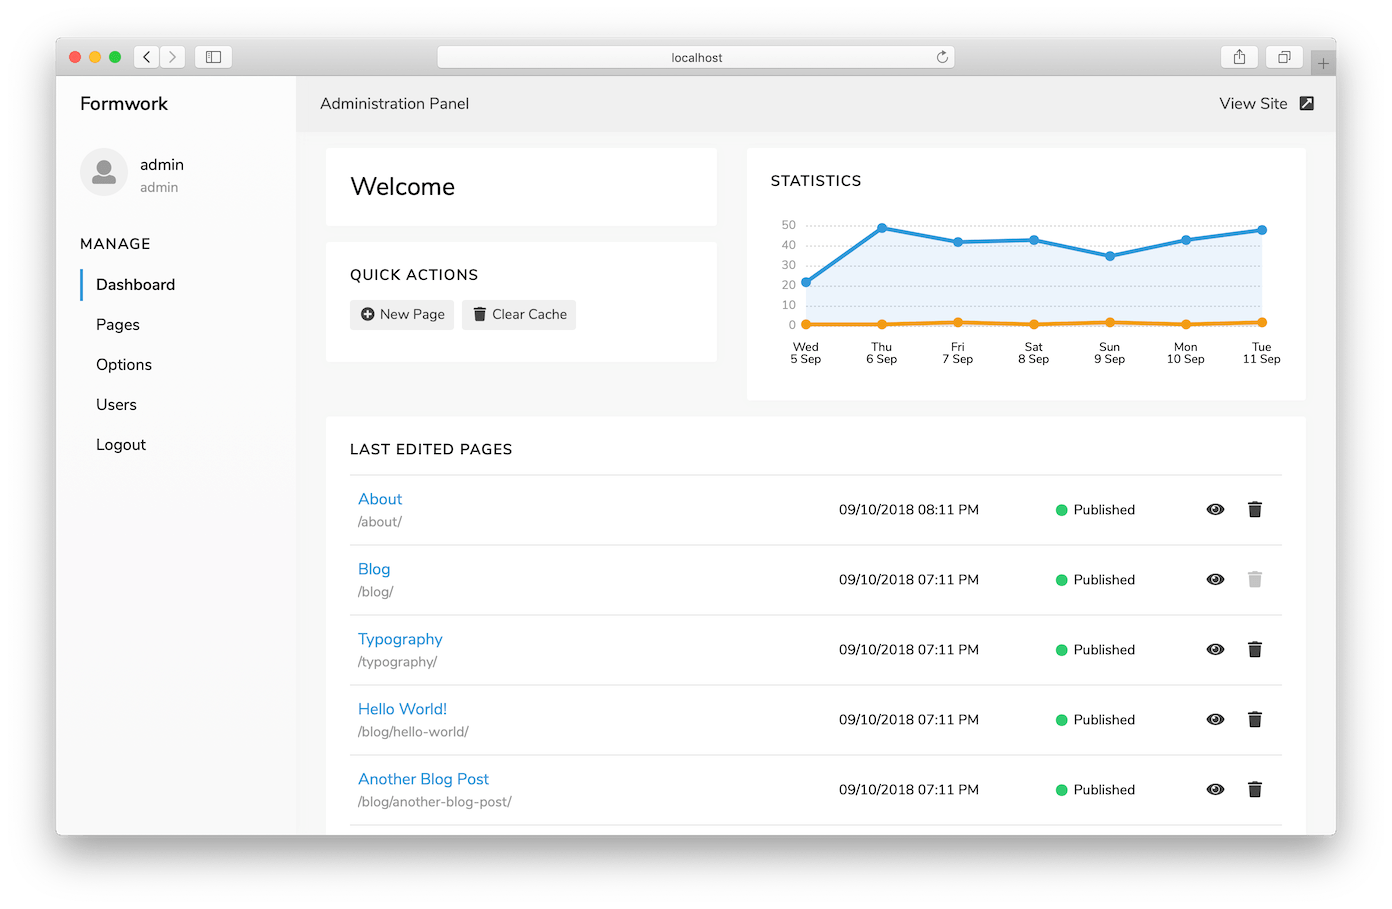
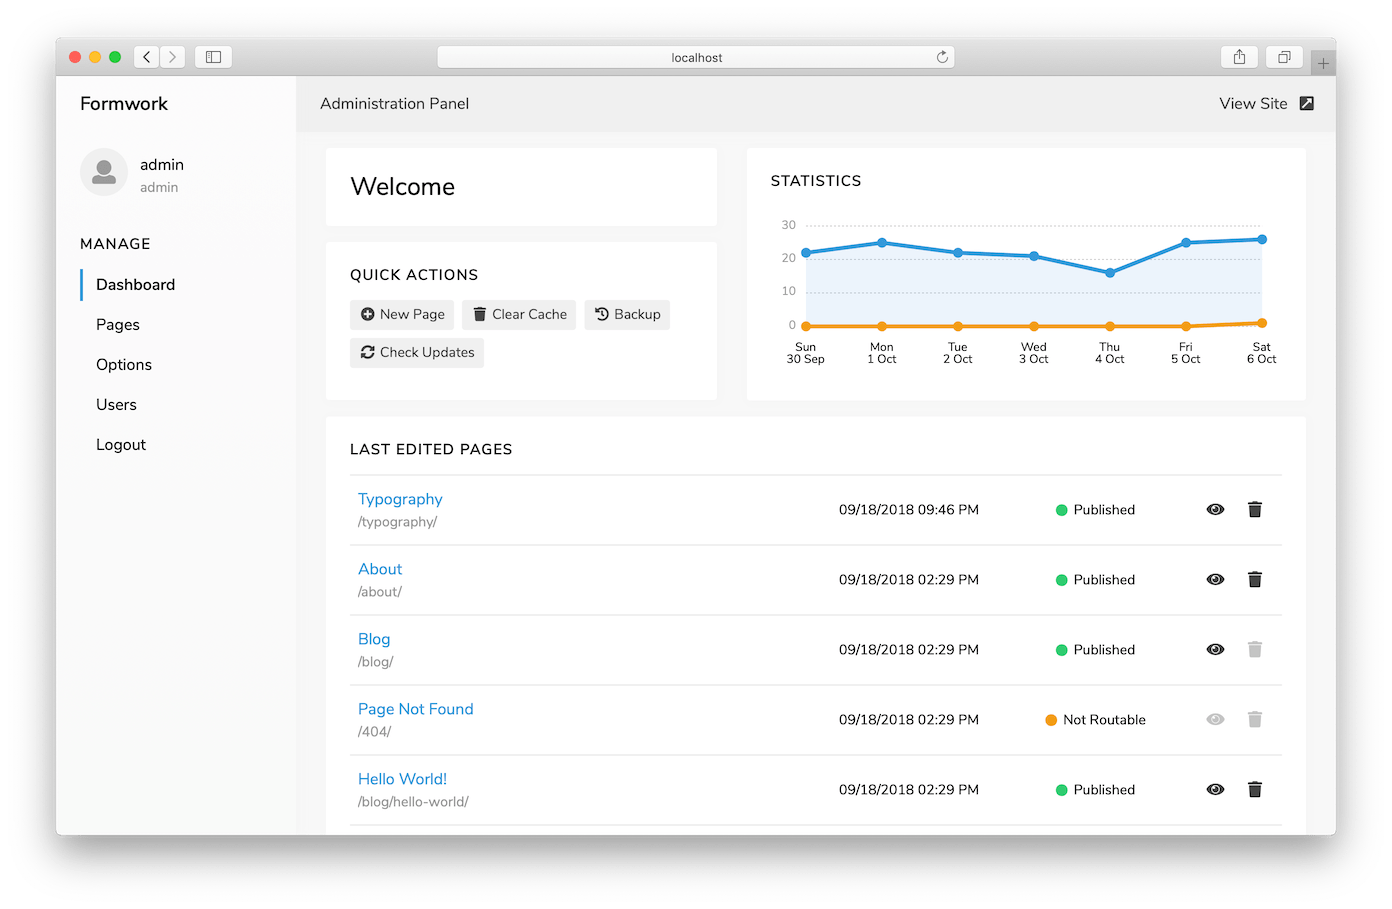
Release 0.8.0

diff --git a/formwork/Core/Formwork.php b/formwork/Core/Formwork.php
@@ -15,7 +15,7 @@ use LogicException;
 
 class Formwork
 {
-    const VERSION = '0.7.2';
+    const VERSION = '0.8.0';
 
     protected static $instance;
 

diff --git a/CHANGELOG.md b/CHANGELOG.md
@@ -1,5 +1,22 @@
 # Changelog
 
+## [0.8.0](https://github.com/giuscris/formwork/releases/tag/0.8.0) (2018-10-06)
+
+**Enhancements**
+
+ * **Add backup feature to export site to a .zip archive**
+ * **Add image processing feature, by now used to resize avatars to square**
+ * **Improve session cookie security and consistency across supported PHP versions**
+ * Use monospace font for values in Options > Info
+ * Allow language strings in schemes
+
+**Bug fixes**
+
+ * Fix redirect loop on Formwork Admin registration
+ * Fix an issue which made possible changing another user's password
+ * Fix error handler ignoring `@` operator and `error_reporting` directive
+ * Fix unrecognized percent-encoded URIs
+
 ## [0.7.2](https://github.com/giuscris/formwork/releases/tag/0.7.2) (2018-09-15)
 
 **Enhancements**

diff --git a/README.md b/README.md
@@ -1,10 +1,10 @@
 # Formwork
 Formwork is a file-based Content Management System (CMS) to make and manage simple sites.
 
-Latest version: [**0.7.2**](https://github.com/giuscris/formwork/releases/tag/0.7.2)
+Latest version: [**0.8.0**](https://github.com/giuscris/formwork/releases/tag/0.8.0)
 
 ## Features
- * ⚡ Lightweight Core (~280 kB dependencies included)
+ * ⚡ Lightweight Core (~300 kB dependencies included)
  * 🗄 No database required!
  * 📑 Simple file-based Cache system
  * ✨ Out-of-the-box Administration Panel
@@ -12,5 +12,6 @@ Latest version: [**0.7.2**](https://github.com/giuscris/formwork/releases/tag/0.
 ![](assets/images/formwork.png)
 
 ## Requirements
- * PHP 5.5.4 or higher
+ * PHP 5.6.0 or higher
  * PHP `zip` extension
+ * PHP `gd` extension
